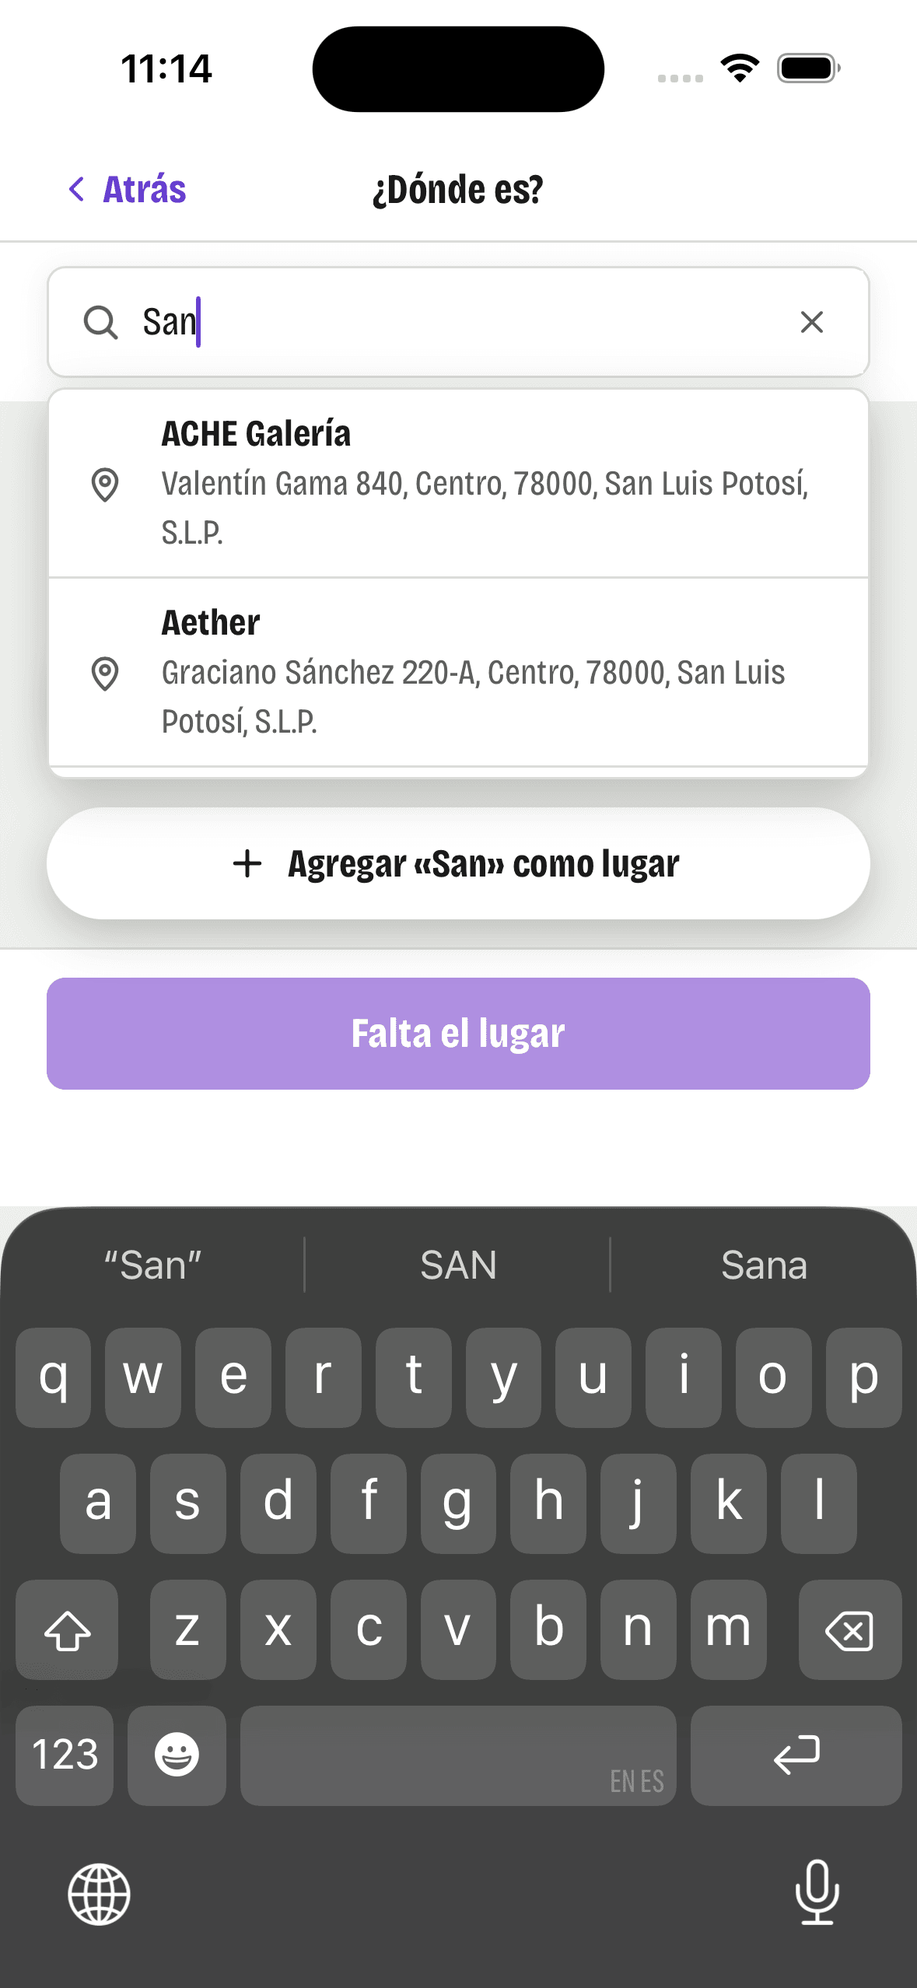
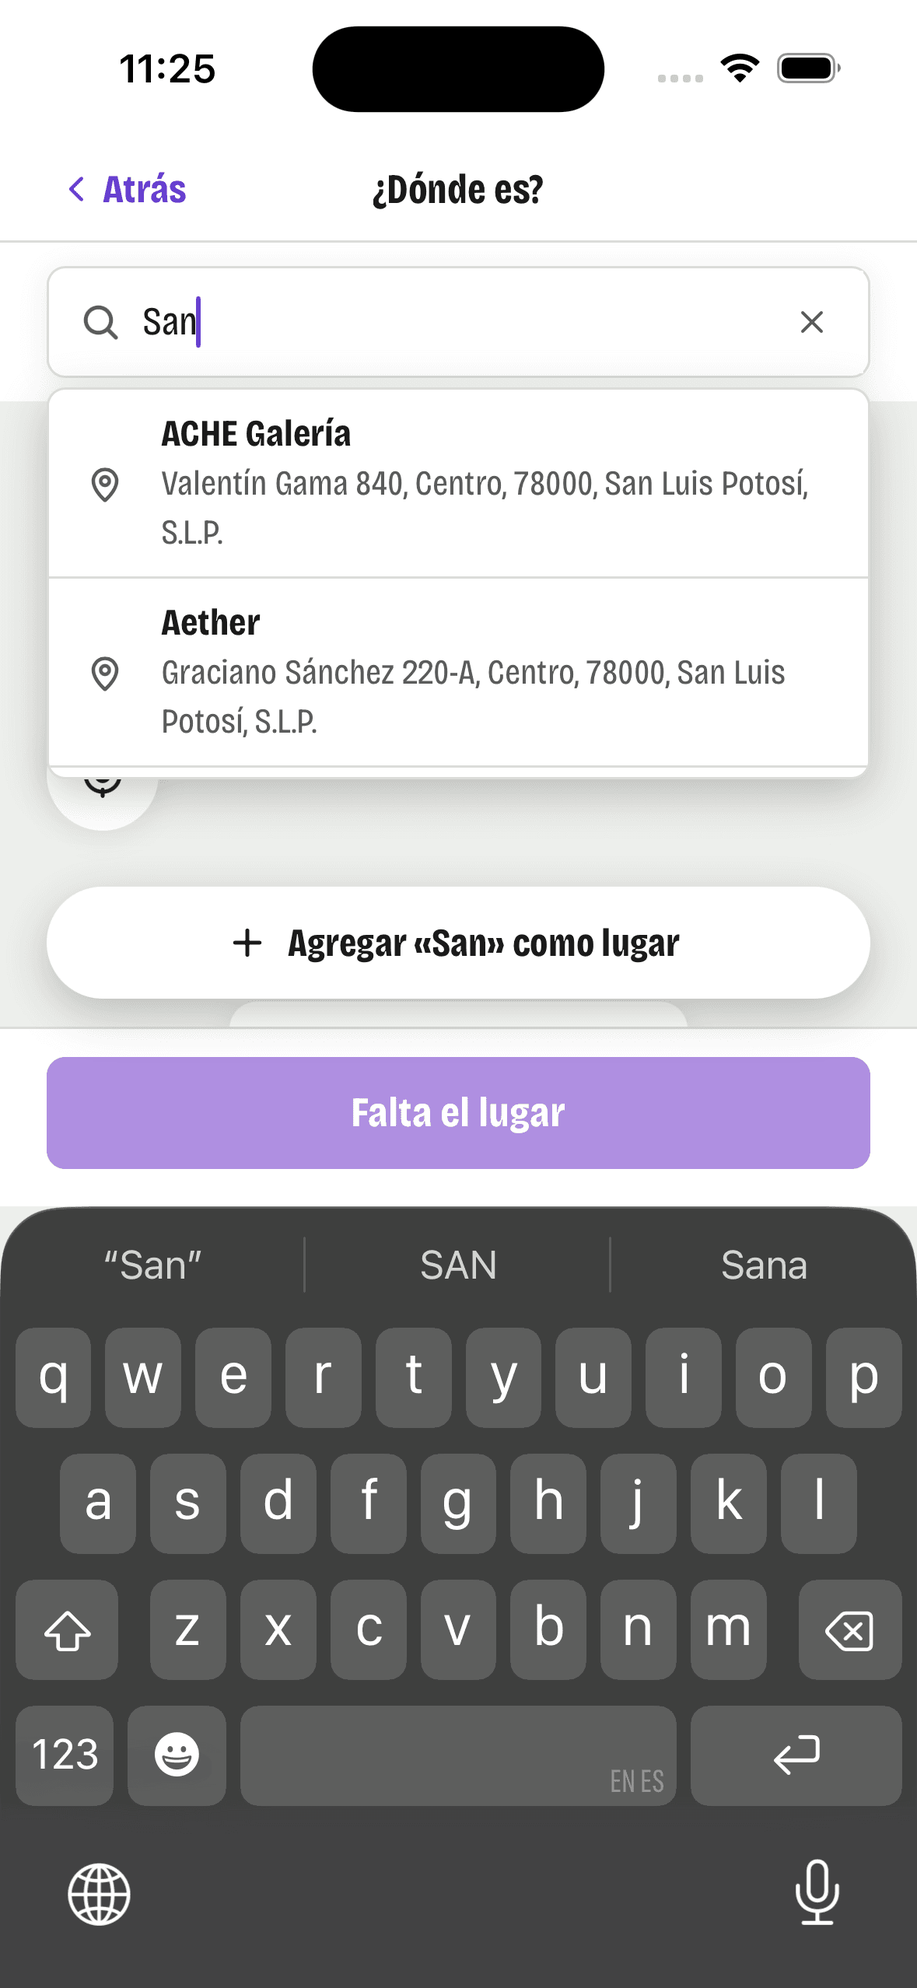
OL-308: el pie con el teclado abierto no cuenta la zona segura de abajo (hueco blanco en la hoja de la app de la tienda)
Medido en la app compilada: el <html> no se encoge (solo el <body>), el bottom del pie es correcto y la caja del pie toca el teclado; el hueco de 50 px era el relleno de abajo (16 + --piso de 34 px, el indicador de inicio) que el teclado ya cubre. La regla compacta con data-teclado pasa de .pasos .pie a todo .pie. Pruebas con --piso de 34 px y control negativo; capturas después en la app y en Safari (hoja y pasos).

Changed region(s): [[0.0305, 0.3709, 0.9771, 0.5872], [0.1832, 0.0309, 0.2443, 0.0618]]

diff --git a/src/components/PorPasos.module.css b/src/components/PorPasos.module.css
@@ -62,7 +62,11 @@
   right: 0;
   bottom: var(--abajo-visible, 0px);
   left: 0;
-  /* El teclado cubre la zona segura de abajo (el indicador de inicio): ahí ya no hace falta su aire. */
+}
+/* El teclado cubre la zona segura de abajo (el indicador de inicio): ahí ya no hace falta su aire (`--piso`). Sin esto queda un hueco blanco
+   de esa altura entre el pie y el teclado (50 px en un iPhone con la app de la tienda, medido en el simulador, bitácora 336). Vale para el pie
+   de los pasos y para el de la hoja «¿Dónde es?». */
+:global(html[data-teclado]) .pie {
   padding-bottom: var(--espacio-4);
 }
 

diff --git a/docs/bitacora/2026/10/336-acciones-sobre-el-teclado.md b/docs/bitacora/2026/10/336-acciones-sobre-el-teclado.md
@@ -35,12 +35,12 @@ El pie se ancla al borde de abajo de lo que se ve (con la medida que corresponda
 - **La medida del teclado es la mayor entre la del `visualViewport` y la de Capacitor**, y con ella publica `--teclado` y `--abajo-visible` igual que antes. En Safari y en la web instalada Capacitor no existe (0); en la app el `visualViewport` no se mueve (0). El comentario del hook explica por qué hacen falta.
 - La banda libre de `asegurar` ya no sale de `visualViewport.height` sino de `window.innerHeight − abajoVisible` (es lo mismo con el `visualViewport`, y vale también para Capacitor); `asegurar` corre también al llegar cada evento (dos cuadros después, como con el `resize`).
 - **El `<body>` no hace scroll interno**: en el CSS de la web `html, body { height: 100% }` y ninguno trae `overflow`, así que con el alto fijado a mano por el plugin el contenido desborda el `<body>` y el que se desplaza sigue siendo la ventana. `bandaLibre` y `desplazable` no encuentran ningún contenedor propio (correcto) y el hook desplaza con `window.scrollBy`; el relleno de la columna da el recorrido que iOS no da (en modo `body` nadie desplaza solo). Se ve en las capturas de la app.
-- Un detalle de la app: con el teclado abierto el pie de los pasos deja de sumar la zona segura de abajo a su relleno (el teclado la cubre): `padding-bottom: var(--espacio-4)` solo con `data-teclado`.
+- Un detalle de la app: con el teclado abierto el pie deja de sumar la zona segura de abajo a su relleno (el teclado la cubre): `padding-bottom: var(--espacio-4)` solo con `data-teclado` (primero solo para los pasos; después, tras medir el hueco de la hoja, para todo pie: ver más abajo).
 
 **Evidencia en el simulador, con la app de verdad.** Compilada con `xcodebuild` desde `apps/ios/ios/App` (`-scheme App -destination id=<UDID> CODE_SIGNING_ALLOWED=NO`, sin firmar, tras `npx cap sync ios`) e instalada con `simctl`. Solo en mi copia local cambié `server.url` a `http://localhost:3100/nuevo/evento` con `server.cleartext: true` (con una redirección en la entrada la página quedó en blanco; con la sesión iniciada entra directo); **`capacitor.config.ts` se revirtió** (sin diff) y también el `Package.resolved` que toca `xcodebuild`. Entré dentro de la app con `ana@example.com` y un código cualquiera (el respaldo local los acepta). Capturas (1179×2556):
 
 12. `tienda-antes-nombre.png` (**antes**, el código de `main` compilado aparte, en la app): «¿Cómo se llama?» con el campo; **no se ve el pie**: bajo las teclas, abajo, asoma su sombra violeta. Es el fallo del founder.
-13. `tienda-despues-nombre.png` (**después**): la misma pantalla: «Falta el nombre» **entero justo encima del teclado**, sin barra de flechas y con el relleno de abajo compacto.
+13. `tienda-despues-nombre.png` (**después**): la misma pantalla: «Falta el nombre» **entero justo encima del teclado**, sin barra de flechas y con el relleno de abajo compacto (recapturada tras la corrección de la zona segura).
 14. `tienda-despues-precio.png`: «¿Cuánto cuesta?» con «15» y el teclado numérico: «Siguiente» entero sobre él.
 15. `tienda-despues-opcional.png`: «¿Quieres agregar algo?» con «Enlace» enfocado (la página se desplazó sola): el campo entero, «Listo» entero debajo y el teclado.
 
@@ -61,7 +61,15 @@ Con la ventana encogida el mecanismo no suma aire dos veces: `window.innerHeight
 - `HojaDonde`: `const bottomBarra = useAbajoVisible()`; se quitaron su estado, su efecto con `visualViewport` y el `altoTeclado` de sus importaciones (`altoTeclado` sigue exportado en `lib/buscarLugares.ts` con sus pruebas, pero ya nadie lo usa: queda por si el gestor prefiere borrarlo).
 - `ui/ListaFlotante` (la lista de sugerencias, que también se ubicaba con `visualViewport` y se habría salido por debajo del teclado en la app): su alto visible es el menor entre el del `visualViewport` y `innerHeight − leerAbajoVisible()`.
 - Prueba nueva en `HojaDonde.componentes.test.mjs` (9 en total; las 8 de antes sin cambios de comportamiento): con los eventos de Capacitor simulados (`keyboardHeight` en el propio evento, `<body>` encogido a mano, `visualViewport` sin cambios) el pie queda justo encima del teclado (508), «Agregar» sobre el pie, la lista bajo el campo sin tapar «Agregar», y «Estoy aquí» (que sube con el teclado) sobre el teclado; al esconderse, todo vuelve al borde.
-- Captura en la app compilada (16, `tienda-hoja-donde-teclado.png`): la hoja «¿Dónde es?» con «San» escrito y el teclado: la lista flotante (ACHE Galería, Aether) bajo el campo, la barra «+ Agregar «San» como lugar» justo encima del pie «Falta el lugar» y el pie entero encima del teclado. No hay un «antes» de la hoja en la app (el «antes» de `main` que compilé fue de los pasos).
+- Captura en la app compilada (`tienda-hoja-donde-teclado.png`, recapturada tras corregir el hueco: ver abajo): la hoja «¿Dónde es?» con «San» escrito y el teclado: la lista flotante (ACHE Galería, Aether) bajo el campo, la barra «+ Agregar «San» como lugar» justo encima del pie «Falta el lugar» y el pie entero encima del teclado. No hay un «antes» de la hoja en la app (el «antes» de `main` que compilé fue de los pasos).
+
+**El hueco blanco entre el pie de la hoja y el teclado en la app de la tienda (medido y corregido).** En la captura de la hoja (`tienda-hoja-hueco-antes.png`) quedaban ~110 px (en puntos, ~47) en blanco entre «Falta el lugar» y el teclado, y en los pasos el pie sí tocaba. La sospecha del gestor era que algo se contaba dos veces (un `<html>` encogido por Capacitor más el `--abajo-visible`). **No era eso; lo medí en la app compilada** con un recuadro de depuración temporal dentro del pie (ya quitado), con el teclado de letras abierto en la hoja:
+- `innerHeight` 852, `visualViewport.height` 852 y **`document.documentElement.clientHeight` 852**: el `<html>` NO se encoge; en modo `body` el plugin solo fija `style.height` del `<body>` (`body.clientHeight` 517 = 852 − 335). Así que no hay «dos encogimientos».
+- La capa de la hoja es `position: fixed; inset: 0` (852 de alto, contra la ventana): su pie `sticky` con `bottom: 335px` (`--abajo-visible`, de Capacitor) queda con su **caja** de 406 a 517 px: el borde de abajo de la caja es justo la cima del teclado. Nada sube de más.
+- El hueco es **dentro** de la caja: el pie mide 111 px (12 de arriba, 48 del botón y **`padding-bottom: 50px`** = 16 + `--piso`, y `--piso` = `env(safe-area-inset-bottom)` = **34 px**, la zona segura del indicador de inicio del iPhone). Con el teclado abierto esa zona segura queda tapada, pero el pie la seguía contando. En los pasos ya lo había quitado con una regla que solo valía para `.pasos .pie`; la hoja (fuera de `.pasos`) no la tenía.
+- **Corrección** (`PorPasos.module.css`): `html[data-teclado] .pie { padding-bottom: var(--espacio-4) }` para **todo** pie (pasos y hoja). Con el teclado, el botón queda a 16 px de él; sin teclado, sigue respetando la zona segura. En Safari y en la web instalada no cambia nada (ahí `--piso` vale ~0 y el `bottom` sí hace falta: la capa mide contra la ventana entera). No hay ninguna distinción «Capacitor / no Capacitor» en el CSS ni en el hook: la medida del teclado es siempre la misma y lo que se ve es siempre lo mismo.
+- Pruebas: `PorPasos.componentes.test.mjs` (+1: con `--piso: 34px`, sin teclado el pie suma 16 + 34 y con teclado 16, y el botón queda a 16 px del teclado) y la de Capacitor de `HojaDonde.componentes.test.mjs` (con `--piso: 34px`, el botón «Listo» queda a ≤ 17 px del teclado). **Control negativo:** quitando la regla, las dos fallan. (La transición de 0,01 ms de `globals.css` deja un cuadro el valor anterior del relleno: las pruebas esperan unos cuadros antes de medir.)
+- Capturas (después): `tienda-hoja-donde-teclado.png` (la hoja en la app de la tienda: lista bajo el campo, «+ Agregar «San» como lugar» sobre el pie, «Falta el lugar» **tocando el teclado**), `tienda-despues-nombre.png` (los pasos en la app, igual de pegado), y en Safari, que **no cambia**: `safari-hoja-donde-despues.png` y `safari-nombre-despues.png` (el pie entero sobre la píldora «localhost», como antes).
 
 ## Medición («teclado» ampliada en `npm run medir`)
 
@@ -79,8 +87,8 @@ Resultado final: **27 pantallas × 4 anchos, 221 s (la máquina estaba ocupada; 
 ## Pruebas
 
 - `npm run typecheck`: limpio. `npm run lint`: 0 errores y 1 aviso que ya estaba (`VisorImagen.componentes.test.mjs`). `npm test`: **2170 pruebas, 148 archivos, 0 fallos** (con `layout.viewport.test.ts`; la hoja no añade pruebas de Vitest). `npm run inventario`: sin novedades.
-- Componentes (`PLAYWRIGHT_MODULE=… node --test "src/**/*.componentes.test.mjs"`): **427 pruebas, 0 fallos** (`HojaDonde` 9, `PorPasos` 15).
-- `PorPasos.componentes.test.mjs` (15 pruebas: las 10 de antes, cuatro de la app de la tienda y una de Android, `visualViewport` simulado de 508 de alto con `pageTop` y desvío propios): sin campo enfocado no hay `--teclado` ni `--abajo-visible` y el pie sigue `sticky`; con el teclado el pie es `fixed`, su borde de abajo queda **en el borde del área visible** (arriba, a medias y al fondo del recorrido), el campo queda sobre el pie y la columna suma teclado + alto del pie + 12; en un paso corto («¿Cómo se llama?») el pie queda sobre el teclado; **un paso con poco recorrido y el campo al fondo (como «¿Quieres agregar algo?»), con Safari moviendo la página por su cuenta, no deja el campo bajo el pie**; con la vista desplazada por iOS (`offsetTop` de 100) el pie sigue el borde de lo que se ve y no el de la ventana; al cerrar el teclado todo vuelve; teclado tardío; control negativo sin el hook; hoja con campo al fondo. **Control negativo del pie:** con la regla `static` de OL-305 fallan tres (el campo/pie en teclado, el pie en el borde, el pie con la vista desplazada).
+- Componentes (`PLAYWRIGHT_MODULE=… node --test "src/**/*.componentes.test.mjs"`): **428 pruebas, 0 fallos** (`HojaDonde` 9, `PorPasos` 16).
+- `PorPasos.componentes.test.mjs` (16 pruebas: las 10 de antes, cuatro de la app de la tienda, una de Android y una de la zona segura, `visualViewport` simulado de 508 de alto con `pageTop` y desvío propios): sin campo enfocado no hay `--teclado` ni `--abajo-visible` y el pie sigue `sticky`; con el teclado el pie es `fixed`, su borde de abajo queda **en el borde del área visible** (arriba, a medias y al fondo del recorrido), el campo queda sobre el pie y la columna suma teclado + alto del pie + 12; en un paso corto («¿Cómo se llama?») el pie queda sobre el teclado; **un paso con poco recorrido y el campo al fondo (como «¿Quieres agregar algo?»), con Safari moviendo la página por su cuenta, no deja el campo bajo el pie**; con la vista desplazada por iOS (`offsetTop` de 100) el pie sigue el borde de lo que se ve y no el de la ventana; al cerrar el teclado todo vuelve; teclado tardío; control negativo sin el hook; hoja con campo al fondo. **Control negativo del pie:** con la regla `static` de OL-305 fallan tres (el campo/pie en teclado, el pie en el borde, el pie con la vista desplazada).
 - `HojaDonde.componentes.test.mjs`: **las 8 pruebas de antes, sin cambios de comportamiento, y una nueva de la app de la tienda** (incluida «con el teclado abierto el pie sube con él…»). Dos cambios de armazón de prueba: el montaje de la hoja ahora va dentro de un `Armazon` de prueba que corre `useCampoVisible` (como en la app, donde el hook vive en `Armazon`), y su `visualViewport` simulado gana `pageTop`.
 
 ## Simulador de iPhone (teclado real)

diff --git a/docs/ops/OPEN_LOOPS.md b/docs/ops/OPEN_LOOPS.md
@@ -14,7 +14,7 @@
 
 ## Ahora
 
-- **OL-308 · Las acciones quedan sobre el teclado (2026-10-06).** Pedido del founder tras ver en producción (app instalada, iPhone) que en «¿Cómo se llama?» el pie con «Siguiente» queda bajo el teclado: «cuando existan acciones (botones) en pantalla se mantienen sobre el teclado», a la vez que la regla de OL-305 (el campo enfocado nunca tapado). Operador Claude Fable 5.1, rama `acciones-sobre-el-teclado` sobre `origin/main` `82ec432f`, bitácora [336](../bitacora/2026/10/336-acciones-sobre-el-teclado.md), capturas `docs/rediseno/capturas-336/` (16, del simulador de iPhone: Safari, web instalada y la app de la tienda compilada). `ui/useCampoVisible` publica `--abajo-visible` (hasta dónde llega lo que se ve) junto a `--teclado`; `PiePaso` se ancla con ese `bottom` (en la columna de los pasos, con el teclado, `position: fixed`; `sticky` falló en el simulador cuando Safari desplaza la página) y publica su alto en `--alto-pie` para el relleno de la columna; la hoja «¿Dónde es?» usa el mismo mecanismo y `abajo` desaparece. Medición ampliada (botones de abajo, dos maneras) y regla en `docs/diseno/LINEA_GRAFICA.md`. La captura del founder es de la app de la tienda (Capacitor, `resize: body`: ni `innerHeight` ni `visualViewport` cambian): ahí sí se reprodujo con `main` y el hook ahora toma el alto de `keyboardWillShow`/`DidShow`/`WillHide`/`DidHide`; en Safari y en la web instalada con `main` no fallaba. Android: `interactiveWidget: "resizes-content"` (sin teléfono Android para probar). La barra «Agregar», la hoja «Agregar lugar», «Estoy aquí» y la lista flotante de `HojaDonde` salen ahora de la misma medida (`useAbajoVisible`), también en la app de la tienda. Hallazgo de otra pantalla: la tira Evento · Lugar · Artista de `/nuevo` queda bajo el teclado (excepción documentada; decide el founder). Sin migraciones.
+- **OL-308 · Las acciones quedan sobre el teclado (2026-10-06).** Pedido del founder tras ver en producción (app instalada, iPhone) que en «¿Cómo se llama?» el pie con «Siguiente» queda bajo el teclado: «cuando existan acciones (botones) en pantalla se mantienen sobre el teclado», a la vez que la regla de OL-305 (el campo enfocado nunca tapado). Operador Claude Fable 5.1, rama `acciones-sobre-el-teclado` sobre `origin/main` `82ec432f`, bitácora [336](../bitacora/2026/10/336-acciones-sobre-el-teclado.md), capturas `docs/rediseno/capturas-336/` (19, del simulador de iPhone: Safari, web instalada y la app de la tienda compilada). `ui/useCampoVisible` publica `--abajo-visible` (hasta dónde llega lo que se ve) junto a `--teclado`; `PiePaso` se ancla con ese `bottom` (en la columna de los pasos, con el teclado, `position: fixed`; `sticky` falló en el simulador cuando Safari desplaza la página) y publica su alto en `--alto-pie` para el relleno de la columna; la hoja «¿Dónde es?» usa el mismo mecanismo y `abajo` desaparece. Medición ampliada (botones de abajo, dos maneras) y regla en `docs/diseno/LINEA_GRAFICA.md`. La captura del founder es de la app de la tienda (Capacitor, `resize: body`: ni `innerHeight` ni `visualViewport` cambian): ahí sí se reprodujo con `main` y el hook ahora toma el alto de `keyboardWillShow`/`DidShow`/`WillHide`/`DidHide`; en Safari y en la web instalada con `main` no fallaba. Android: `interactiveWidget: "resizes-content"` (sin teléfono Android para probar). La barra «Agregar», la hoja «Agregar lugar», «Estoy aquí» y la lista flotante de `HojaDonde` salen ahora de la misma medida (`useAbajoVisible`), también en la app de la tienda; en la hoja quedaba un hueco blanco sobre el teclado (el pie contaba la zona segura de abajo, `--piso` = 34 px): medido en la app compilada y corregido para todo pie con el teclado abierto. Hallazgo de otra pantalla: la tira Evento · Lugar · Artista de `/nuevo` queda bajo el teclado (excepción documentada; decide el founder). Sin migraciones.
 - **OL-307 · El cartel se sube siempre; la lectura automática es una casilla con contador (2026-10-06).** Construcción del prototipo firmado de OL-306 (bitácora 334). Operador Claude Sonnet 5.5, rama `cartel-sin-lectura` sobre `origin/main` `963b8a17` + `prototipo-cartel-sin-lectura`, bitácora [335](../bitacora/2026/10/335-cartel-sin-lectura.md), capturas `docs/rediseno/capturas-335/` (9). Primera pantalla de `/nuevo/evento` igual en todos los casos: marco punteado con «Sube el cartel · Será la portada del evento» y, como su última fila, la casilla `ui/Casilla` «Lectura automática · Quedan N este mes» (marcada de entrada; apagada con «Se renueva el 1 de <mes>»; sin casilla sin servicio); «No tengo cartel ›» fuera del marco (`ui/Opcion` sin icono ni detalle, con `--aire-antes` de `PorPasos`). `useLeerCartel` sube siempre y lee solo si la casilla está marcada, hay cupo y servicio (`seLee`); sin lectura o con fallo, el cartel queda guardado y sigue «¿Cómo se llama?» con la fila «Cartel guardado» (· no pude leerlo) solo en la primera pregunta; sin consulta de cupo antes de subir. Sin `pedirMasLecturas` ni `pedida` (tampoco en `TarjetaCartel`). Contador «Lectura automática de carteles» en Ajustes › Cuenta (`RenglonLecturas`). **Migración `20261006100000_cartel_tope_seis.sql` (la aplica el gestor):** tope base 6; columna `devuelta` en `lecturas_cartel`; `mi_cupo_de_cartel` y `apartar_lectura_de_cartel` no cuentan las devueltas; `devolver_lectura_de_cartel(uuid)` solo para `service_role` con fusible de 6 devoluciones al mes por cuenta (cuesta a lo más el doble del tope); `leerCartelAccion` devuelve la lectura que falla (modelo o corte) con `clienteAdmin`. Presupuesto de `medir` `s15` a [20, 20, 54, 54]. Pruebas: `npm test` 2168, `test:componentes` 418, `test:db` 1572 comprobaciones, lint, typecheck, inventario y medir sin novedades. Pendiente: aplicar la migración, la prueba en el iPhone y que `SUPABASE_SERVICE_ROLE_KEY` esté en Production.
 - **OL-306 · Prototipo firmado: cartel sin lectura obligatoria (2026-10-06).** El founder probó OL-302 y pidió separar subir el cartel de leerlo. Seis vueltas la misma mañana; firmado. Lo firmado: primera pantalla igual siempre (marco punteado con «Sube el cartel · Será la portada del evento» y, pegada debajo, la casilla «Lectura automática / Quedan N este mes»; «No tengo cartel ›» fuera del marco); el cartel se sube siempre y se lee solo con la casilla marcada y cupo; sin lectura o con fallo se sigue a «¿Cómo se llama?» con la fila «Cartel guardado»; 6 lecturas al mes, la fallida no se descuenta, sin «Pedir más»; contador también en el perfil. Prototipo `docs/rediseno/prototipos/cartel-sin-lectura.html`, bitácora 334. La construcción es OL-307.
 - **OL-304 · «Publicado» en el alta por pasos y «Descargar el cartel» (2026-10-05).** Pieza 5 del plan de la bitácora 323 y pedido del founder («ofrece opción de descargar cartel de eventos. Al final del flujo y en la ficha del evento»). Operador Claude Fable 5.1, rama `publicado-por-pasos` sobre `origin/main` `95659d2b` (unida hasta `8cc792f5`), bitácora [332](../bitacora/2026/10/332-publicado-por-pasos.md), capturas `docs/rediseno/capturas-332/` (6: «Publicado» sin y con cartel, «Cartel descargado», la ficha y dos a 320). En `/nuevo/evento` (sigue sin enlazar) publicar ya no redirige a la ficha: el formulario escondido manda `quedarse=1` y `crearEvento` devuelve `{ ok: true, id, slug, href }` (sin el campo, redirige como siempre: el formulario de siempre y `actualizarEvento` no cambian); el paso nuevo `publicado` (avance 1, sin Atrás, la ✕ sale como siempre, la guardia sigue apartada) enseña el sello verde que crece 200 ms (quieto con «reducir movimiento»), «Evento publicado», la tarjeta del evento como quedó (`RenglonEvento` con día y hora; toca y abre la ficha; con cartel lleva su miniatura), «Compartir» (el mismo texto que la ficha: `compartirEvento` en `lib/eventos.ts`), «Descargar el cartel» solo con cartel y «Publicar otro» (vuelve a montar el alta con otra `key`: todo vacío, otra clave de operación, guardia nueva, los lugares guardados se conservan). `BotonDescargarCartel`: enlace con `download` al que el script añade traer el cartel, `navigator.canShare({ files })` → `share` (hoja del iPhone: Guardar imagen, WhatsApp, Instagram) o descarga por `blob`; «Preparando…», «Cartel descargado», «No se pudo descargar»; en «Publicado» precarga el archivo para que el toque abra la hoja al instante. Ruta nueva `/api/cartel/[id]`: slug o UUID, evento visible y no pasado, imagen solo del Storage propio (`cartelDescargable`), `Content-Disposition: attachment; filename="cartel-<slug>.<ext>"` con el tipo de origen (nunca SVG), caché 5 min / 1 h en el CDN, 404 y 502. La ficha del evento suma «Cartel» como cuarta acción (con imagen propia descargable). Sin migraciones. Pruebas: `npm test` 2163 (25 nuevas), `test:componentes` 402 con `main` unido (8 nuevas en `AltaEvento` y 6 de `BotonDescargarCartel`), lint, typecheck, inventario sin novedades (342; el token `--sello` evitó subir las medidas en duro), `medir` sin novedades (ficha de evento 73/73/104/104; `s15` 9/9/43/43 sin lectura de carteles), `next build` verde y ruta y ficha comprobadas contra el respaldo local. 12 decisiones del operador en la bitácora (las que más conviene revisar: sello verde como el prototipo y no del color de acción, encabezado `h2` porque la barra ya trae el `h1`, «Cartel» última acción de la ficha como el prototipo y no junto a «Compartir»). **Estado:** entregado al gestor para revisión; falta la prueba con el iPhone real (lista en la bitácora). Sin merge.
